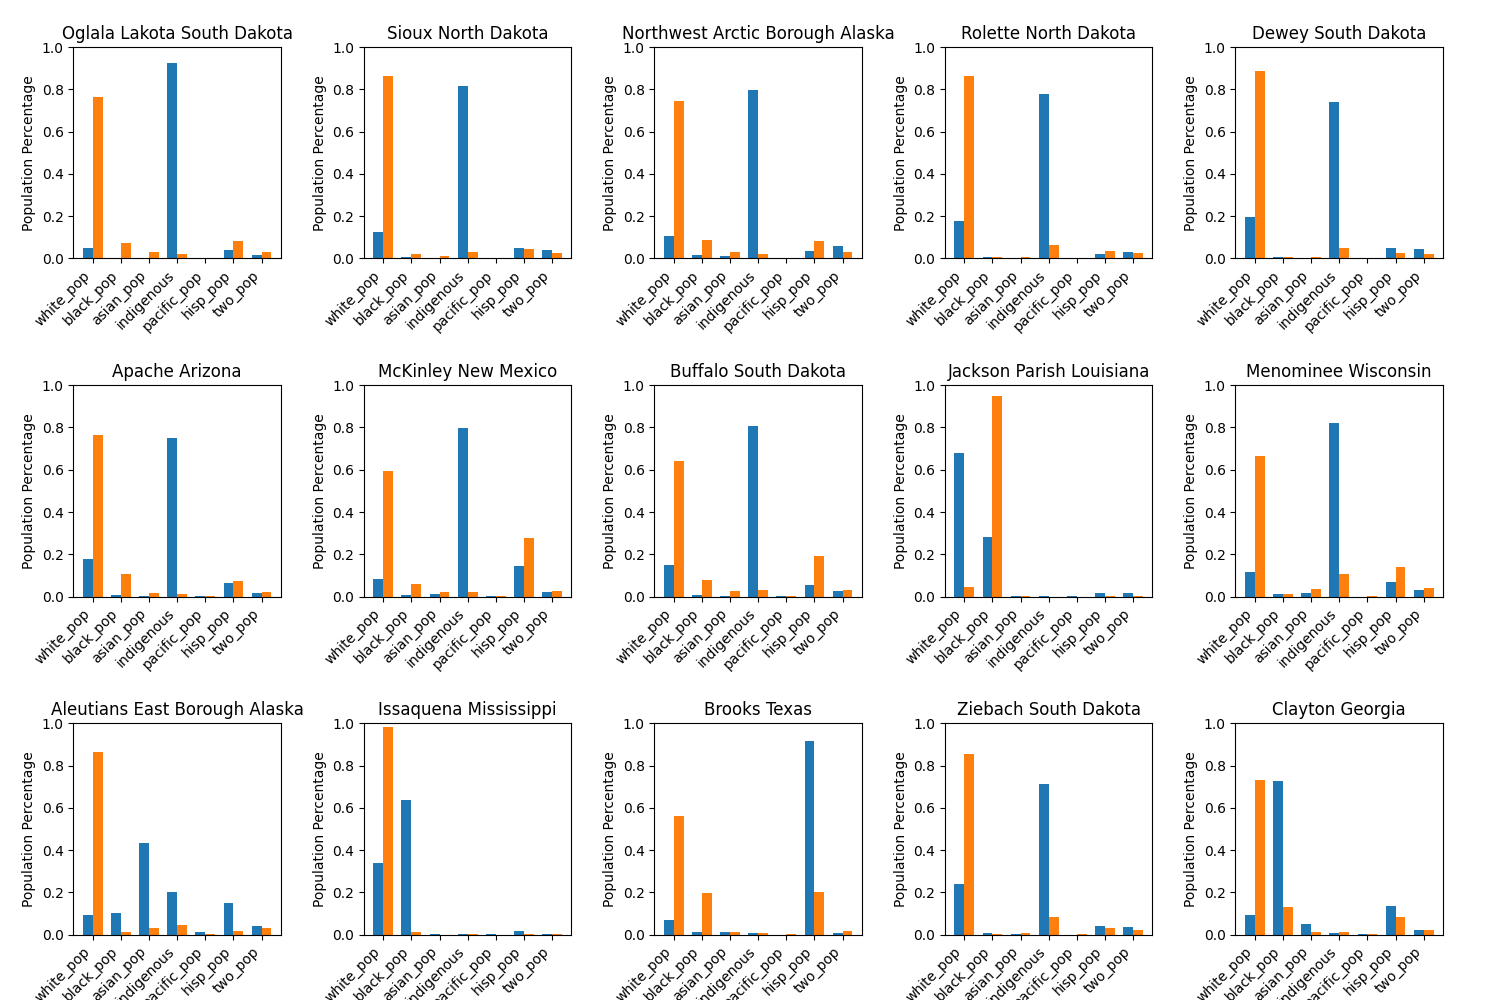
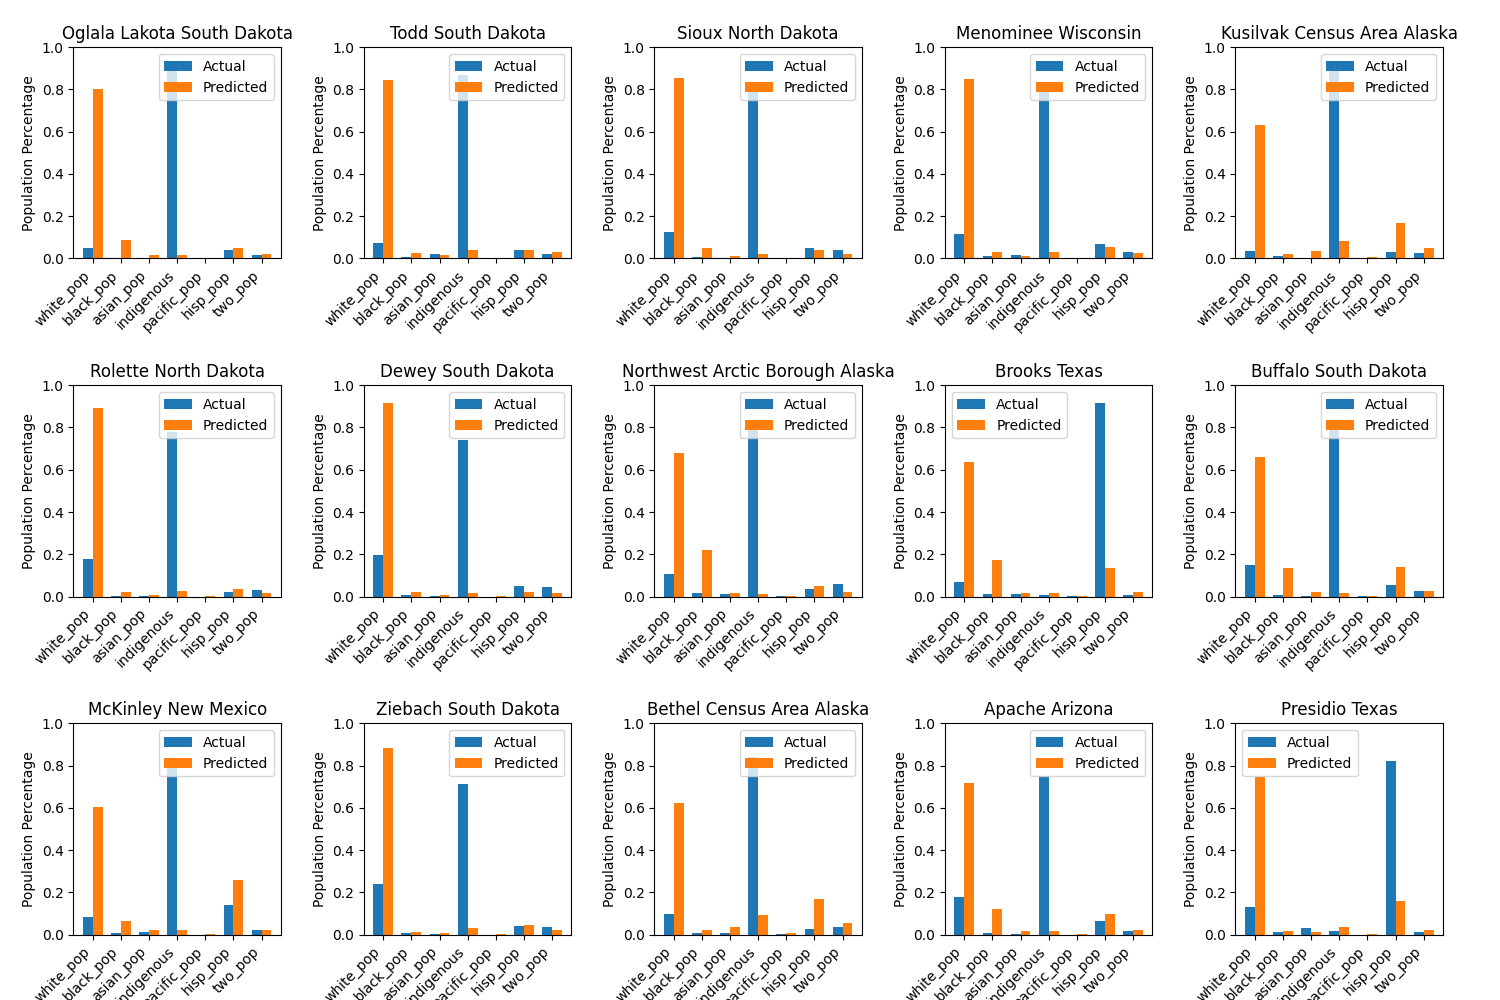
coordinates data and maps for all models

diff --git a/visualize.py b/visualize.py
@@ -101,6 +101,7 @@ def get_MSE(actuals, predictions, cities, dir, config):
         ax.bar(x - width/2, errors_top15['actuals'][i], width, label='Actual')
         ax.bar(x + width/2, errors_top15['predictions'][i], width, label='Predicted')
         ax.set_ylim(0, 1)
+        ax.legend()
     print(errors_top15[['county', 'MSE']])
 
     # Adjust or remove empty subplots if cities < nrows*ncols
@@ -158,7 +159,7 @@ def map_MSE(errors, dir):
 
     errors_map = gpd.GeoDataFrame(
         errors, geometry=gpd.points_from_xy(errors.longitude, errors.latitude))
-    print(errors_map)
+    print(errors_map[errors_map['colour'] == 'green'])
 
     world = gpd.read_file(get_path("naturalearth.land"))
 
@@ -178,7 +179,7 @@ def map_MSE(errors, dir):
     plt.savefig(f'{dir}/MSE_map.png')
 
 def main(config):
-    model = torch.load(f'./experiments/{config["name"]}/models/model-7000.pth')
+    model = torch.load(f'./experiments/{config["name"]}/models/model-6000.pth')
 
     city_demographics, city_cuisine_embeddings = \
         load_data(config)
@@ -196,8 +197,6 @@ def main(config):
 
     results = predictions.detach().numpy()
     results_all = predictions_all.detach().numpy()
-    print('results all:')
-    print(results_all)
     actuals = y_test.detach().numpy()
     actuals_all = torch.cat((y_train,y_test)).detach().numpy()
     cities = test_cities
